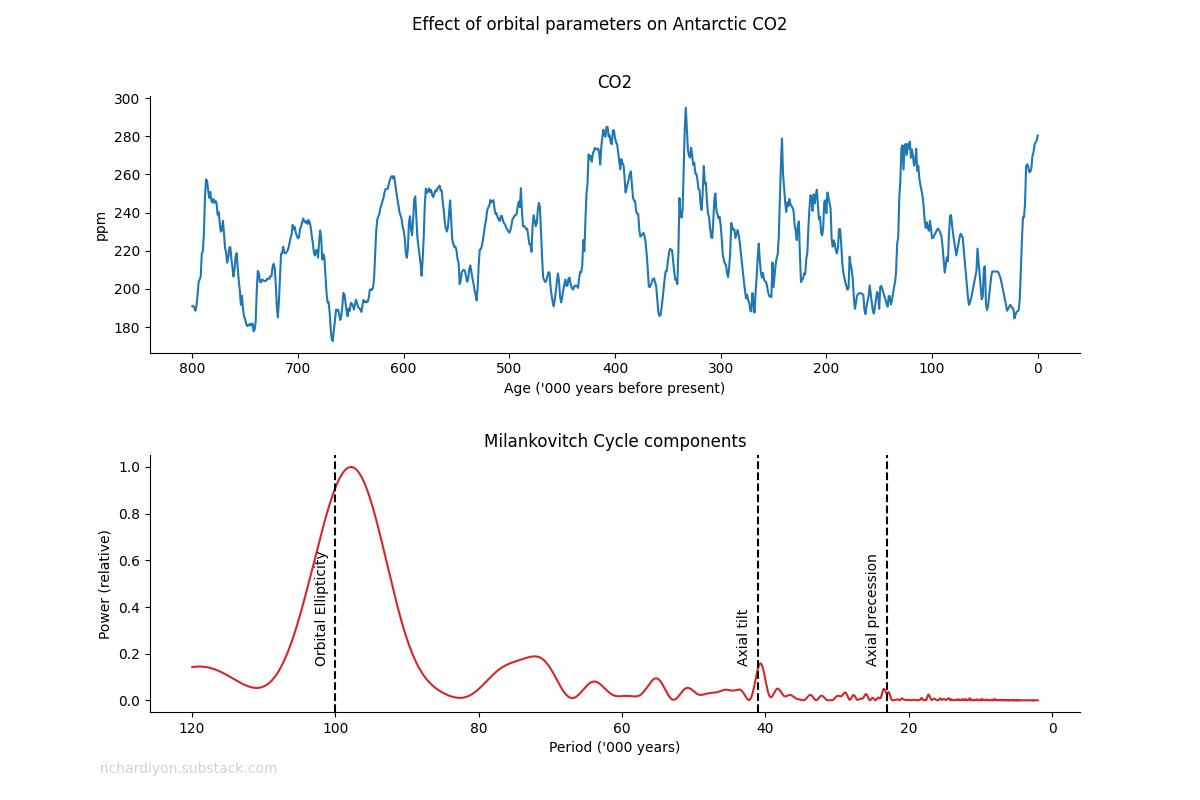
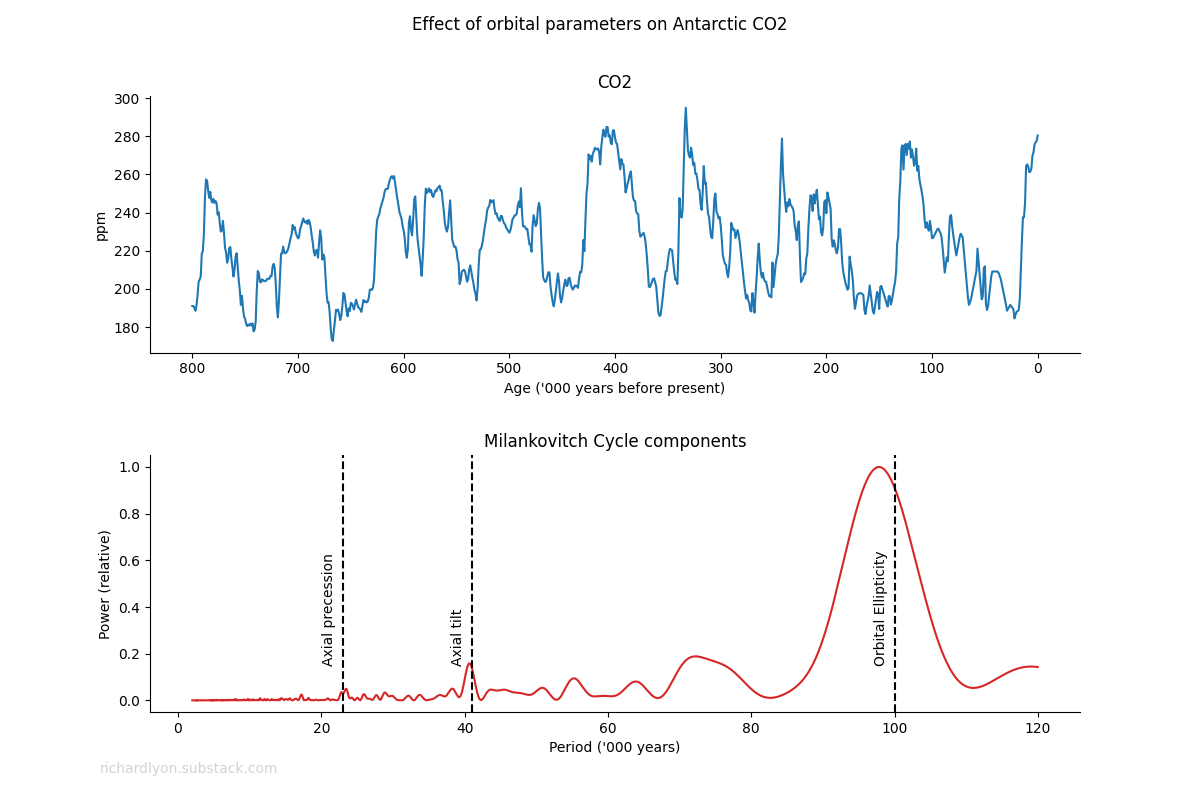
add composite plot

diff --git a/milankovitch/composite.py b/milankovitch/composite.py
@@ -1,0 +1,92 @@
+"""
+composite.py
+
+Plots a composite figure of Antarctic CO2, temperature and dust, and global sea level.
+
+"""
+import matplotlib.pyplot as plt
+import pandas as pd
+import numpy as np
+
+from milankovitch import PLOTDIR
+from milankovitch.sources import *
+from milankovitch.utils import compute_fft, orbital_parameters
+
+np.seterr(divide='ignore')
+
+
+def normalise(df: pd.DataFrame, data_col: str, normalised_col: str) -> pd.DataFrame:
+    """
+    Adds a column of data with the data_col normalised to the range [0,1]
+    Returns: dataframe with normalised colum as `data_col_norm`
+
+    """
+    df[normalised_col] = (df[data_col] - np.min(df[data_col])) / (np.max(df[data_col]) - np.min(df[data_col]))
+
+    return df
+
+
+def plot_composite():
+    # get sources
+    df_temp = epica_domec_800kr_temperature()
+    df_co2 = epica_domec_800kr_co2()
+    df_sealevel = rses_sealevel()
+    df_dust = epica_domec_800kr_dust()
+
+    # ffts
+
+    df_temp_fft = compute_fft(df_temp, "Temperature(degC)", 120)
+    df_co2_fft = compute_fft(df_co2, "CO2(ppm)", 120)
+    df_sealevel_fft = compute_fft(df_sealevel, "RSL(m)", 120)
+
+    # construct a normalised set
+
+    df_temp = normalise(df_temp, "Temperature(degC)", "Temp(norm)")
+    df_co2 = normalise(df_co2, "CO2(ppm)", "CO2(norm)")
+    df_sealevel = normalise(df_sealevel, "RSL(m)", "Sealevel(norm)")
+
+    f, (ax0, ax1) = plt.subplots(2, 1, figsize=(12, 8))
+    plt.subplots_adjust(hspace=0.4)
+    f.suptitle("Effect of orbital parameters on global sea level, and Antarctic CO2 and temperature")
+
+    # plot temperature, CO@, and sea level
+
+    df_temp.plot(ax=ax0, x="Age(kYr)", y="Temp(norm)", color="tab:red")
+    df_co2.plot(ax=ax0, x="Age(kYr)", y="CO2(norm)", color="tab:green")
+    df_sealevel.plot(ax=ax0, x="Age(kYr)", y="Sealevel(norm)", color="tab:blue", )
+    ax0.invert_xaxis()
+    ax0.set_xlabel("Age ('000 years before present)")
+
+    # plot power spectra
+
+    df_temp_fft.plot(ax=ax1, x="periods", y="power", color="tab:red", legend=None)
+    df_co2_fft.plot(ax=ax1, x="periods", y="power", color="tab:green", legend=None)
+    df_sealevel_fft.plot(ax=ax1, x="periods", y="power", color="tab:blue", legend=None)
+
+    # plot annotations
+
+    for p in orbital_parameters:
+        ax1.axvline(p.period_years / 1000, linestyle="--", color="black")
+        ax1.annotate(p.name, xy=(p.period_years / 1000, 0), xytext=(-10, 25), textcoords='offset points',
+                     rotation=90,
+                     va='bottom', ha='center')
+
+    ax1.annotate(
+        "richardlyon.substack.com",
+        (0, 0),
+        (-50, -50),
+        xycoords="axes pixels",
+        textcoords="offset pixels",
+        va="top",
+        color="lightgrey",
+    )
+
+    plotname = PLOTDIR / "composite.png"
+    plt.savefig(plotname)
+    print(f"Saved `{plotname}`")
+
+    plt.show()
+
+
+if __name__ == "__main__":
+    plot_composite()

diff --git a/milankovitch/utils.py b/milankovitch/utils.py
@@ -24,7 +24,7 @@ def next_power_of_2(x):
     return 1 if x == 0 else math.ceil(math.log2(x))
 
 
-def compute_fft(df: pd.DataFrame, data_col: str) -> pd.DataFrame:
+def compute_fft(df: pd.DataFrame, data_col: str, max_period: int = None) -> pd.DataFrame:
     """
     Compute the Fourier Transform into the frequency domain.
     Args:
@@ -55,5 +55,8 @@ def compute_fft(df: pd.DataFrame, data_col: str) -> pd.DataFrame:
 
     # Dataframe of periods less than max_period years
     df = pd.DataFrame(list(zip(periods, power)), columns=["periods", "power"])
+
+    if max_period is not None:
+        df = df[df["periods"] <= max_period]
 
     return df

diff --git a/milankovitch/temperature.py b/milankovitch/temperature.py
@@ -23,8 +23,7 @@ plt.style.use("../style/elegant.mplstyle")
 
 def plot_temperature():
     df_temp = epica_domec_800kr_temperature()
-    df_fft = compute_fft(df_temp, "Temperature(degC)")
-    df_fft = df_fft[df_fft["periods"] < 120]
+    df_fft = compute_fft(df_temp, "Temperature(degC)", 120)
 
     f, (ax0, ax1) = plt.subplots(2, 1, figsize=(12, 8))
     plt.subplots_adjust(hspace=0.4)
@@ -44,7 +43,6 @@ def plot_temperature():
     ax1.set_title("Milankovitch Cycle components")
     ax1.set_xlabel("Period ('000 years)")
     ax1.set_ylabel("Power (relative)")
-    ax1.invert_xaxis()
 
     # plot annotations
 

diff --git a/milankovitch/sealevel.py b/milankovitch/sealevel.py
@@ -23,8 +23,7 @@ plt.style.use("../style/elegant.mplstyle")
 
 def plot_sealevel():
     df_sealevel = rses_sealevel()
-    df_fft = compute_fft(df_sealevel, "RSL(m)")
-    df_fft = df_fft[df_fft["periods"] < 120]
+    df_fft = compute_fft(df_sealevel, "RSL(m)", 120)
 
     f, (ax0, ax1) = plt.subplots(2, 1, figsize=(12, 8))
     plt.subplots_adjust(hspace=0.4)
@@ -44,7 +43,6 @@ def plot_sealevel():
     ax1.set_title("Milankovitch Cycle components")
     ax1.set_xlabel("Period ('000 years)")
     ax1.set_ylabel("Power (relative)")
-    ax1.invert_xaxis()
 
     # plot annotations
 

diff --git a/milankovitch/dust.py b/milankovitch/dust.py
@@ -23,8 +23,7 @@ plt.style.use("../style/elegant.mplstyle")
 
 def plot_dust():
     df_dust = epica_domec_800kr_dust()
-    df_fft = compute_fft(df_dust, "Dust(ng/g)")
-    df_fft = df_fft[df_fft["periods"] < 120]
+    df_fft = compute_fft(df_dust, "Dust(ng/g)", 120)
 
     f, (ax0, ax1) = plt.subplots(2, 1, figsize=(12, 8))
     plt.subplots_adjust(hspace=0.4)
@@ -44,7 +43,6 @@ def plot_dust():
     ax1.set_title("Milankovitch Cycle components")
     ax1.set_xlabel("Period ('000 years)")
     ax1.set_ylabel("Power (relative)")
-    ax1.invert_xaxis()
 
     # plot annotations
 

diff --git a/milankovitch/co2.py b/milankovitch/co2.py
@@ -23,8 +23,7 @@ plt.style.use("../style/elegant.mplstyle")
 
 def plot_co2():
     df_co2 = epica_domec_800kr_co2()
-    df_fft = compute_fft(df_co2, "CO2(ppm)")
-    df_fft = df_fft[df_fft["periods"] < 120]
+    df_fft = compute_fft(df_co2, "CO2(ppm)", 120)
 
     f, (ax0, ax1) = plt.subplots(2, 1, figsize=(12, 8))
     plt.subplots_adjust(hspace=0.4)
@@ -44,7 +43,6 @@ def plot_co2():
     ax1.set_title("Milankovitch Cycle components")
     ax1.set_xlabel("Period ('000 years)")
     ax1.set_ylabel("Power (relative)")
-    ax1.invert_xaxis()
 
     # plot annotations
 
